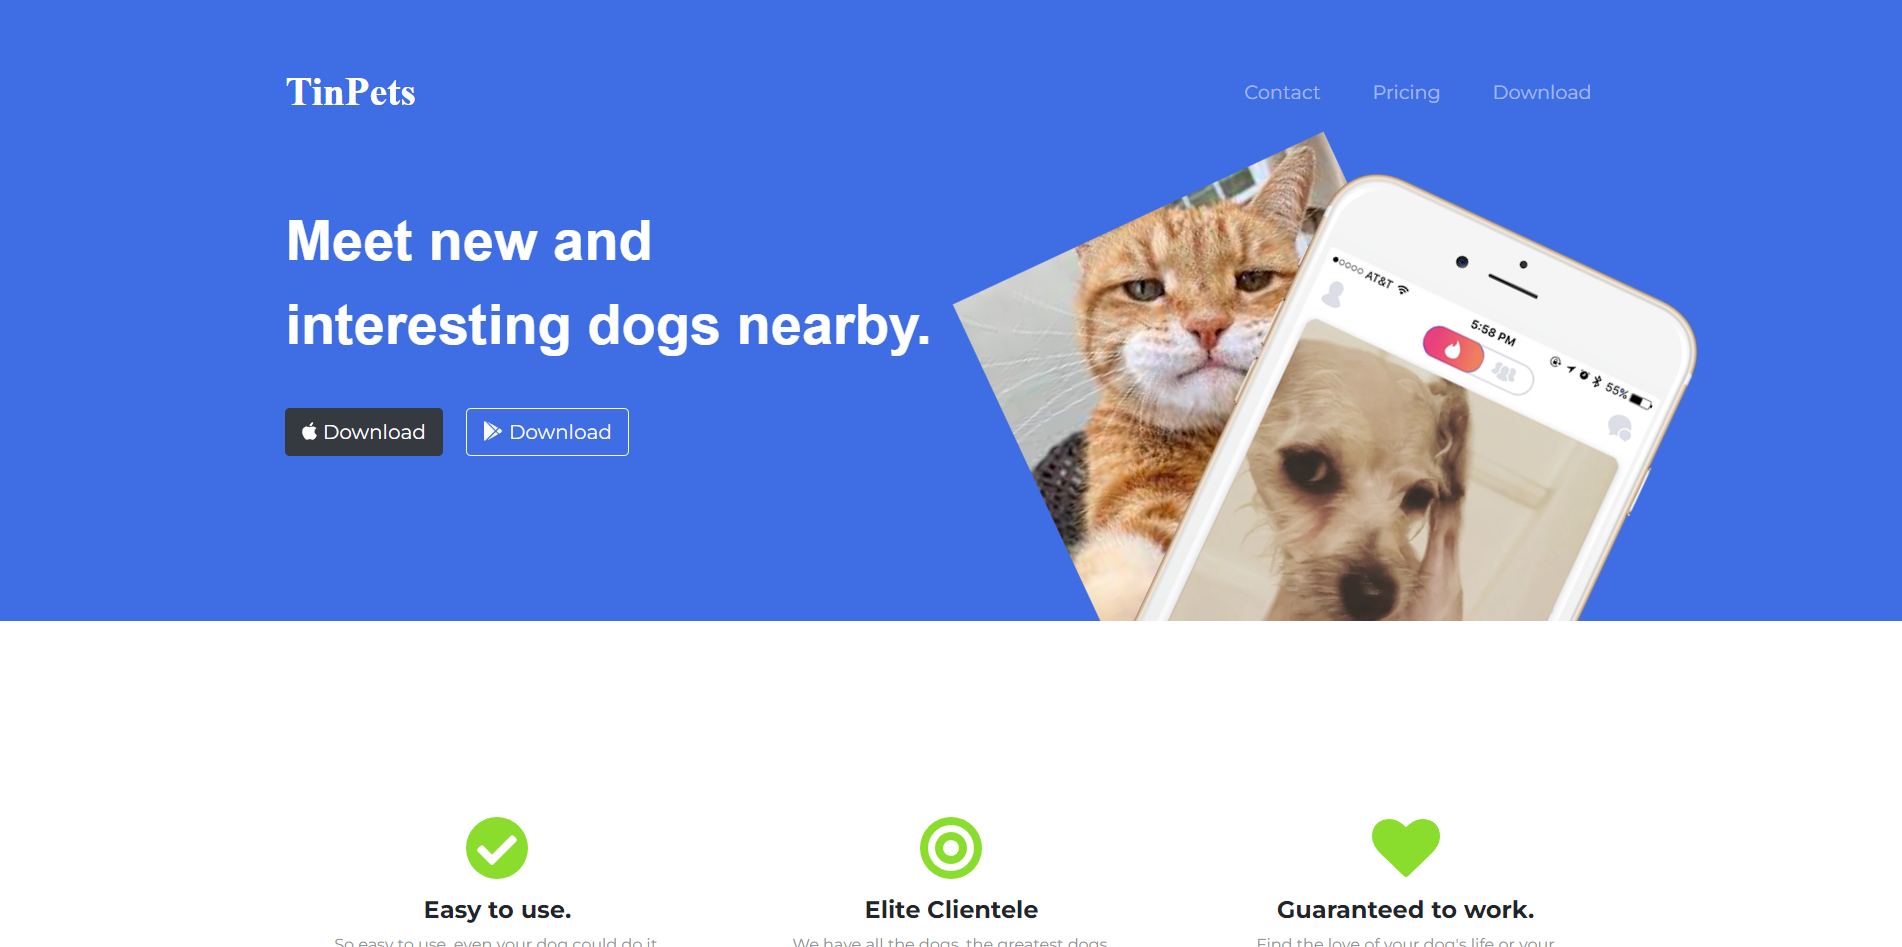
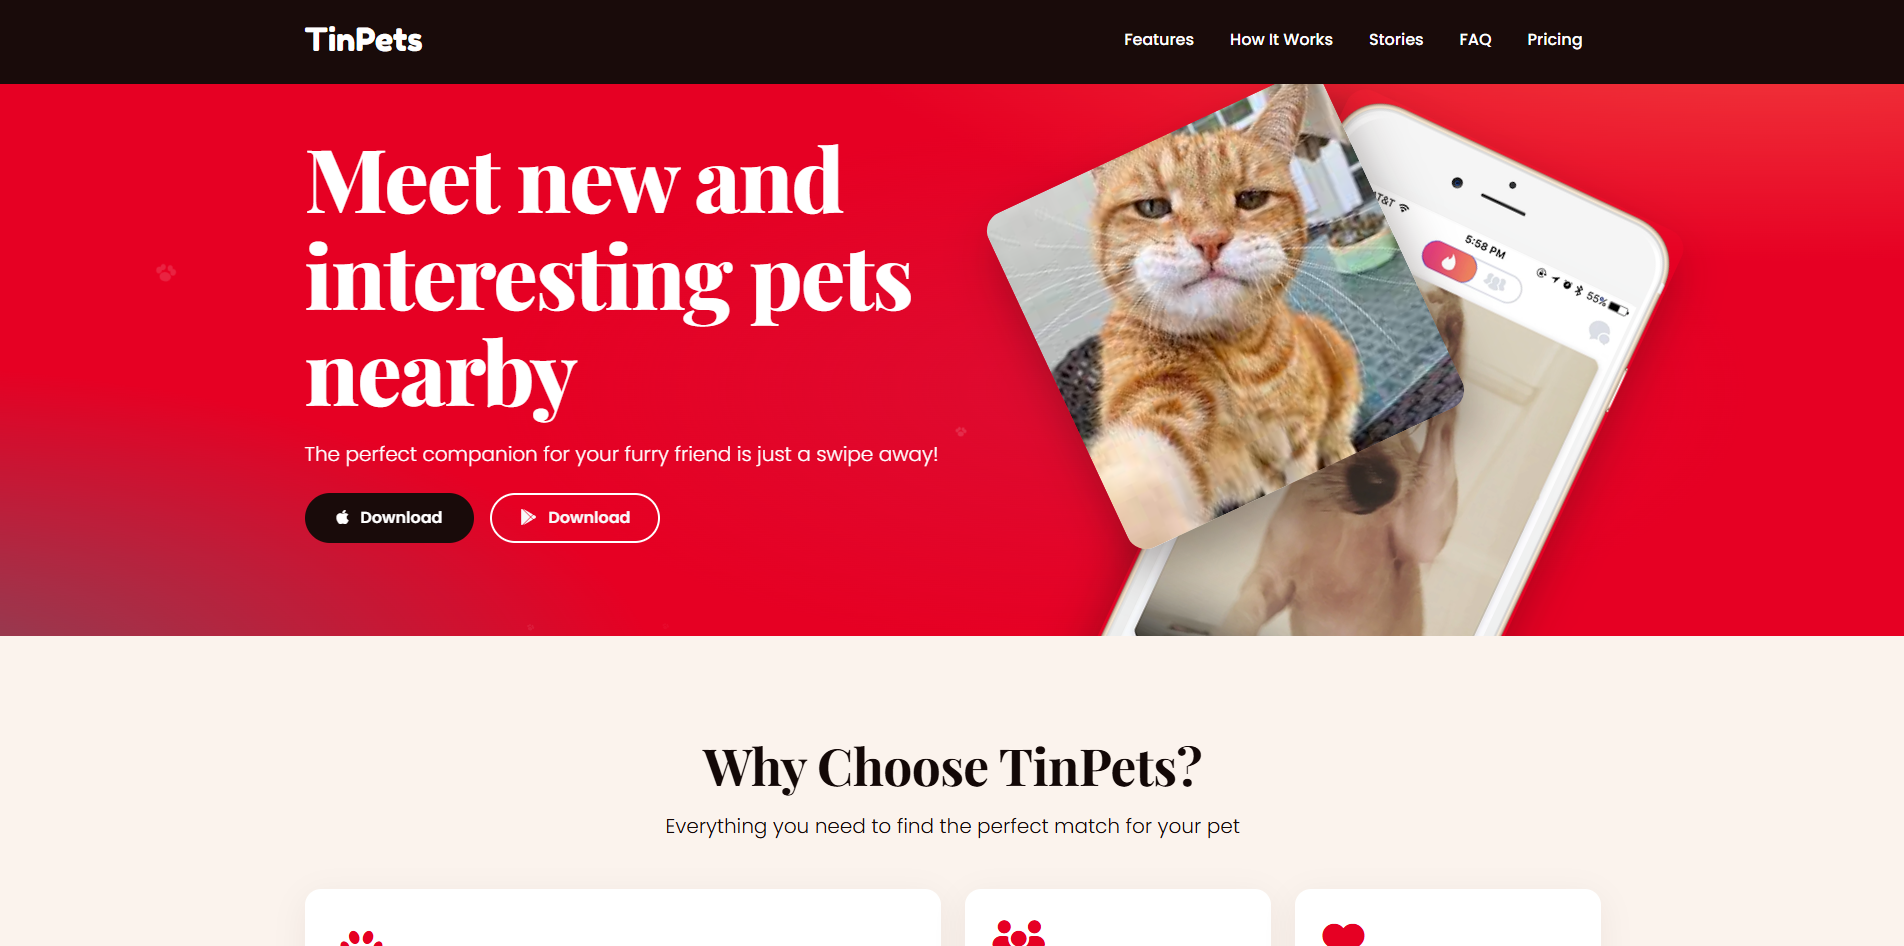
feat(projects): replace Unsplash thumbnails with local screenshots

diff --git a/src/lib/components/Projects.svelte b/src/lib/components/Projects.svelte
@@ -16,8 +16,8 @@
 	});
 
 	const projects = [
-		{ id: 4, img: 'https://images.unsplash.com/photo-1555774698-0b77e0d5fac6?auto=format&fit=crop&w=800&q=80', url: 'https://314dhan.github.io/tinpets/', tags: ['HTML', 'CSS', 'JS'] },
-		{ id: 5, img: 'https://images.unsplash.com/photo-1611605698335-8b1569810432?auto=format&fit=crop&w=800&q=80', url: 'https://linkshortener-chi.vercel.app/', tags: ['NodeJS', 'JS'] },
+		{ id: 4, img: '/images/tinpets.png', url: 'https://314dhan.github.io/tinpets/', tags: ['HTML', 'CSS', 'JS'] },
+		{ id: 5, img: '/images/urlsortener.png', url: 'https://linkshortener-chi.vercel.app/', tags: ['NodeJS', 'JS'] },
 		{ id: 6, img: 'https://images.unsplash.com/photo-1577563908411-5077b6dc7624?auto=format&fit=crop&w=800&q=80', url: 'https://chat-app-messaging-gamma.vercel.app/', tags: ['Vue', 'NodeJS'] },
 		{ id: 7, img: '/images/kanji-flash-card-projecto.png', url: 'https://kanji-flash-card-project.vercel.app/', tags: ['JS', 'CSS'] },
 		{ id: 8, img: '/images/sswfood.png', url: 'https://ssw-foodfactory.vercel.app/', tags: ['HTML', 'CSS'] },